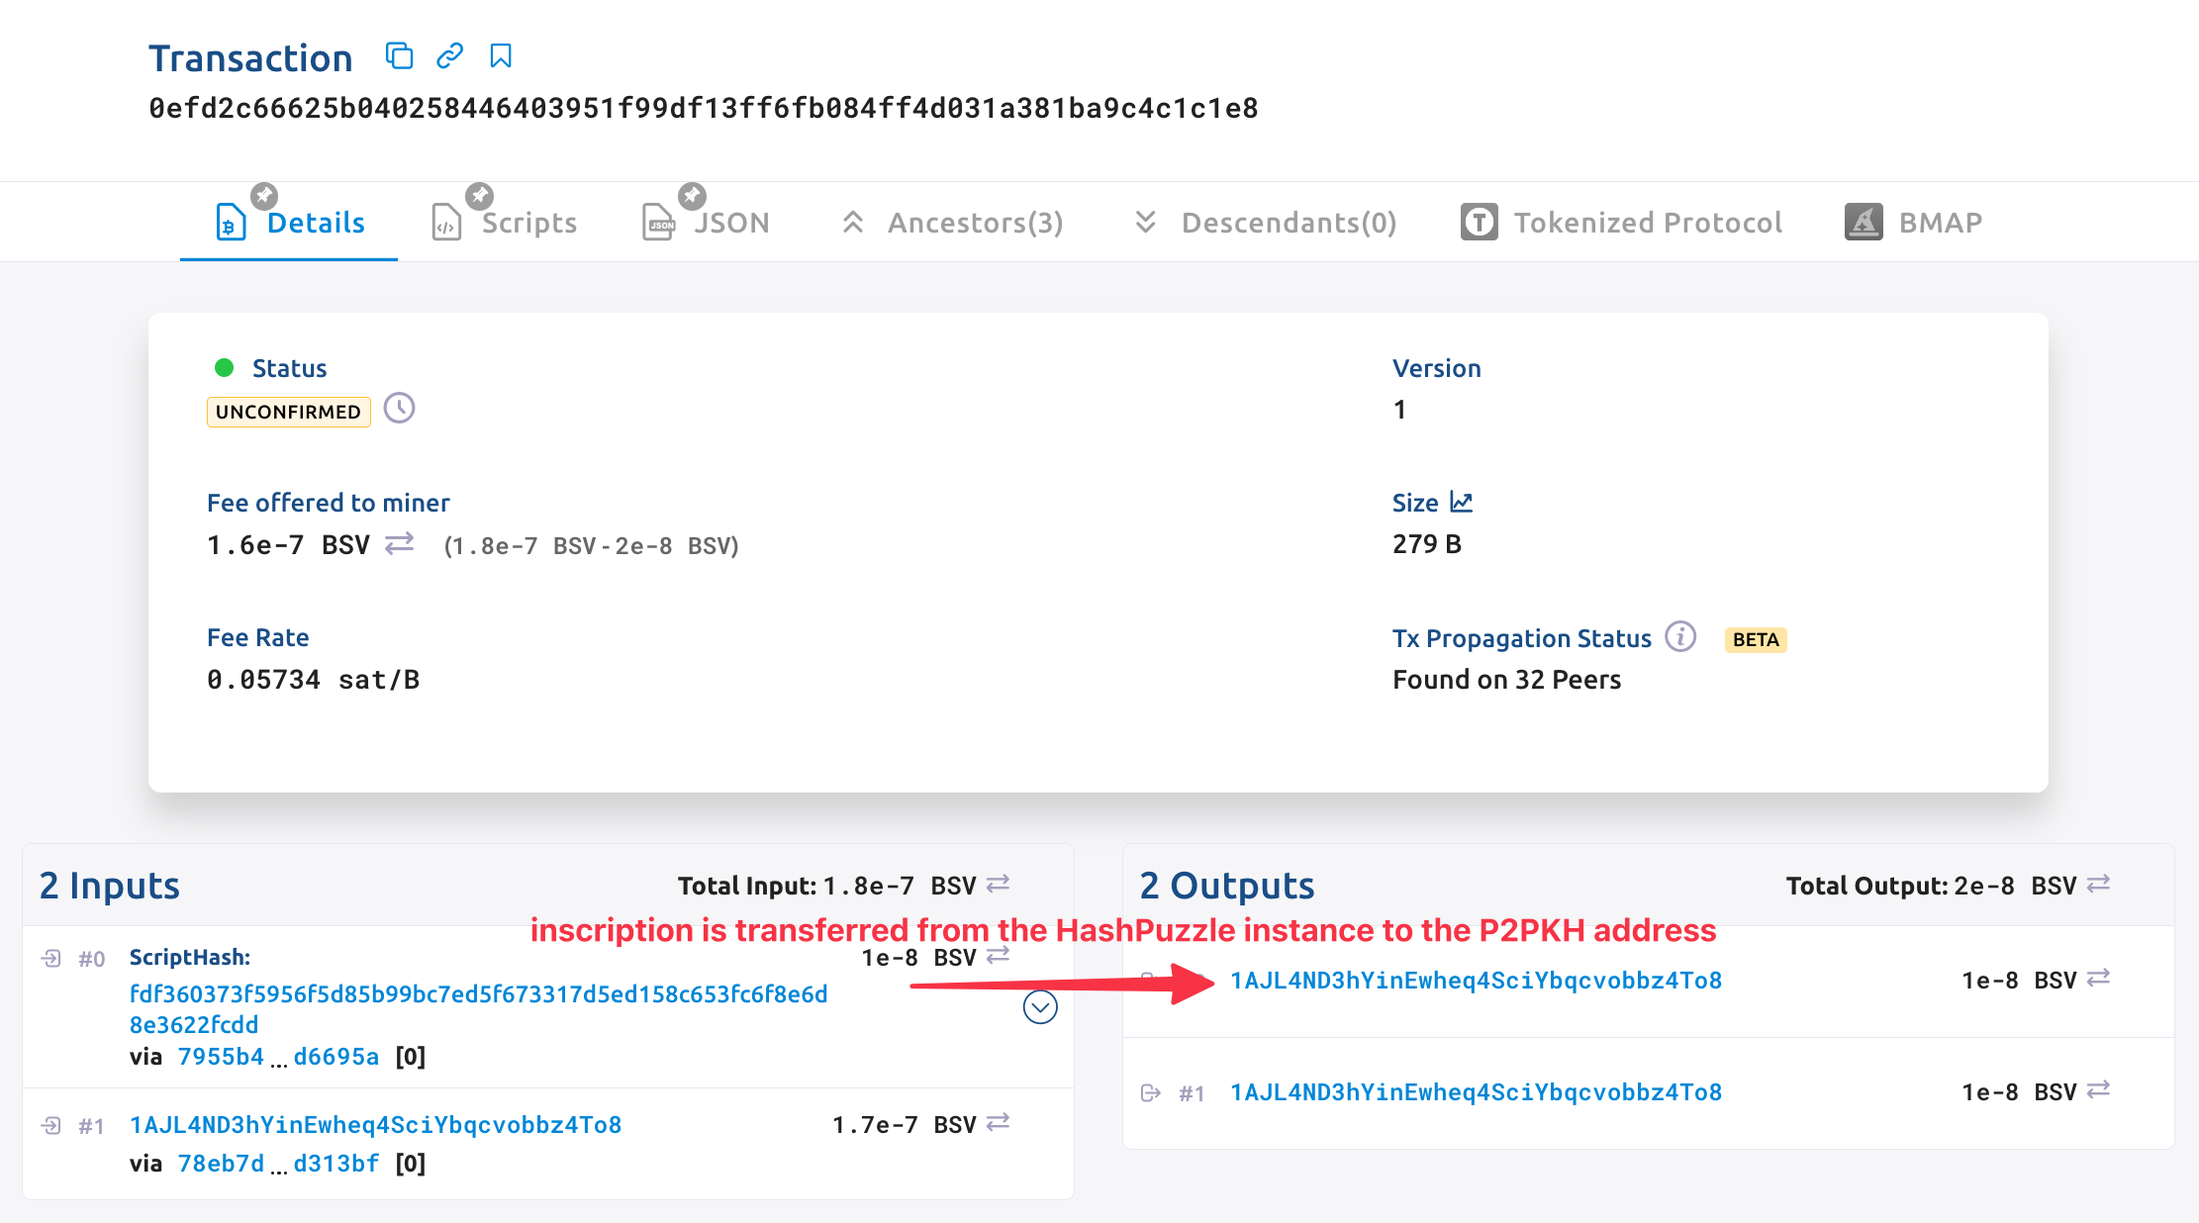
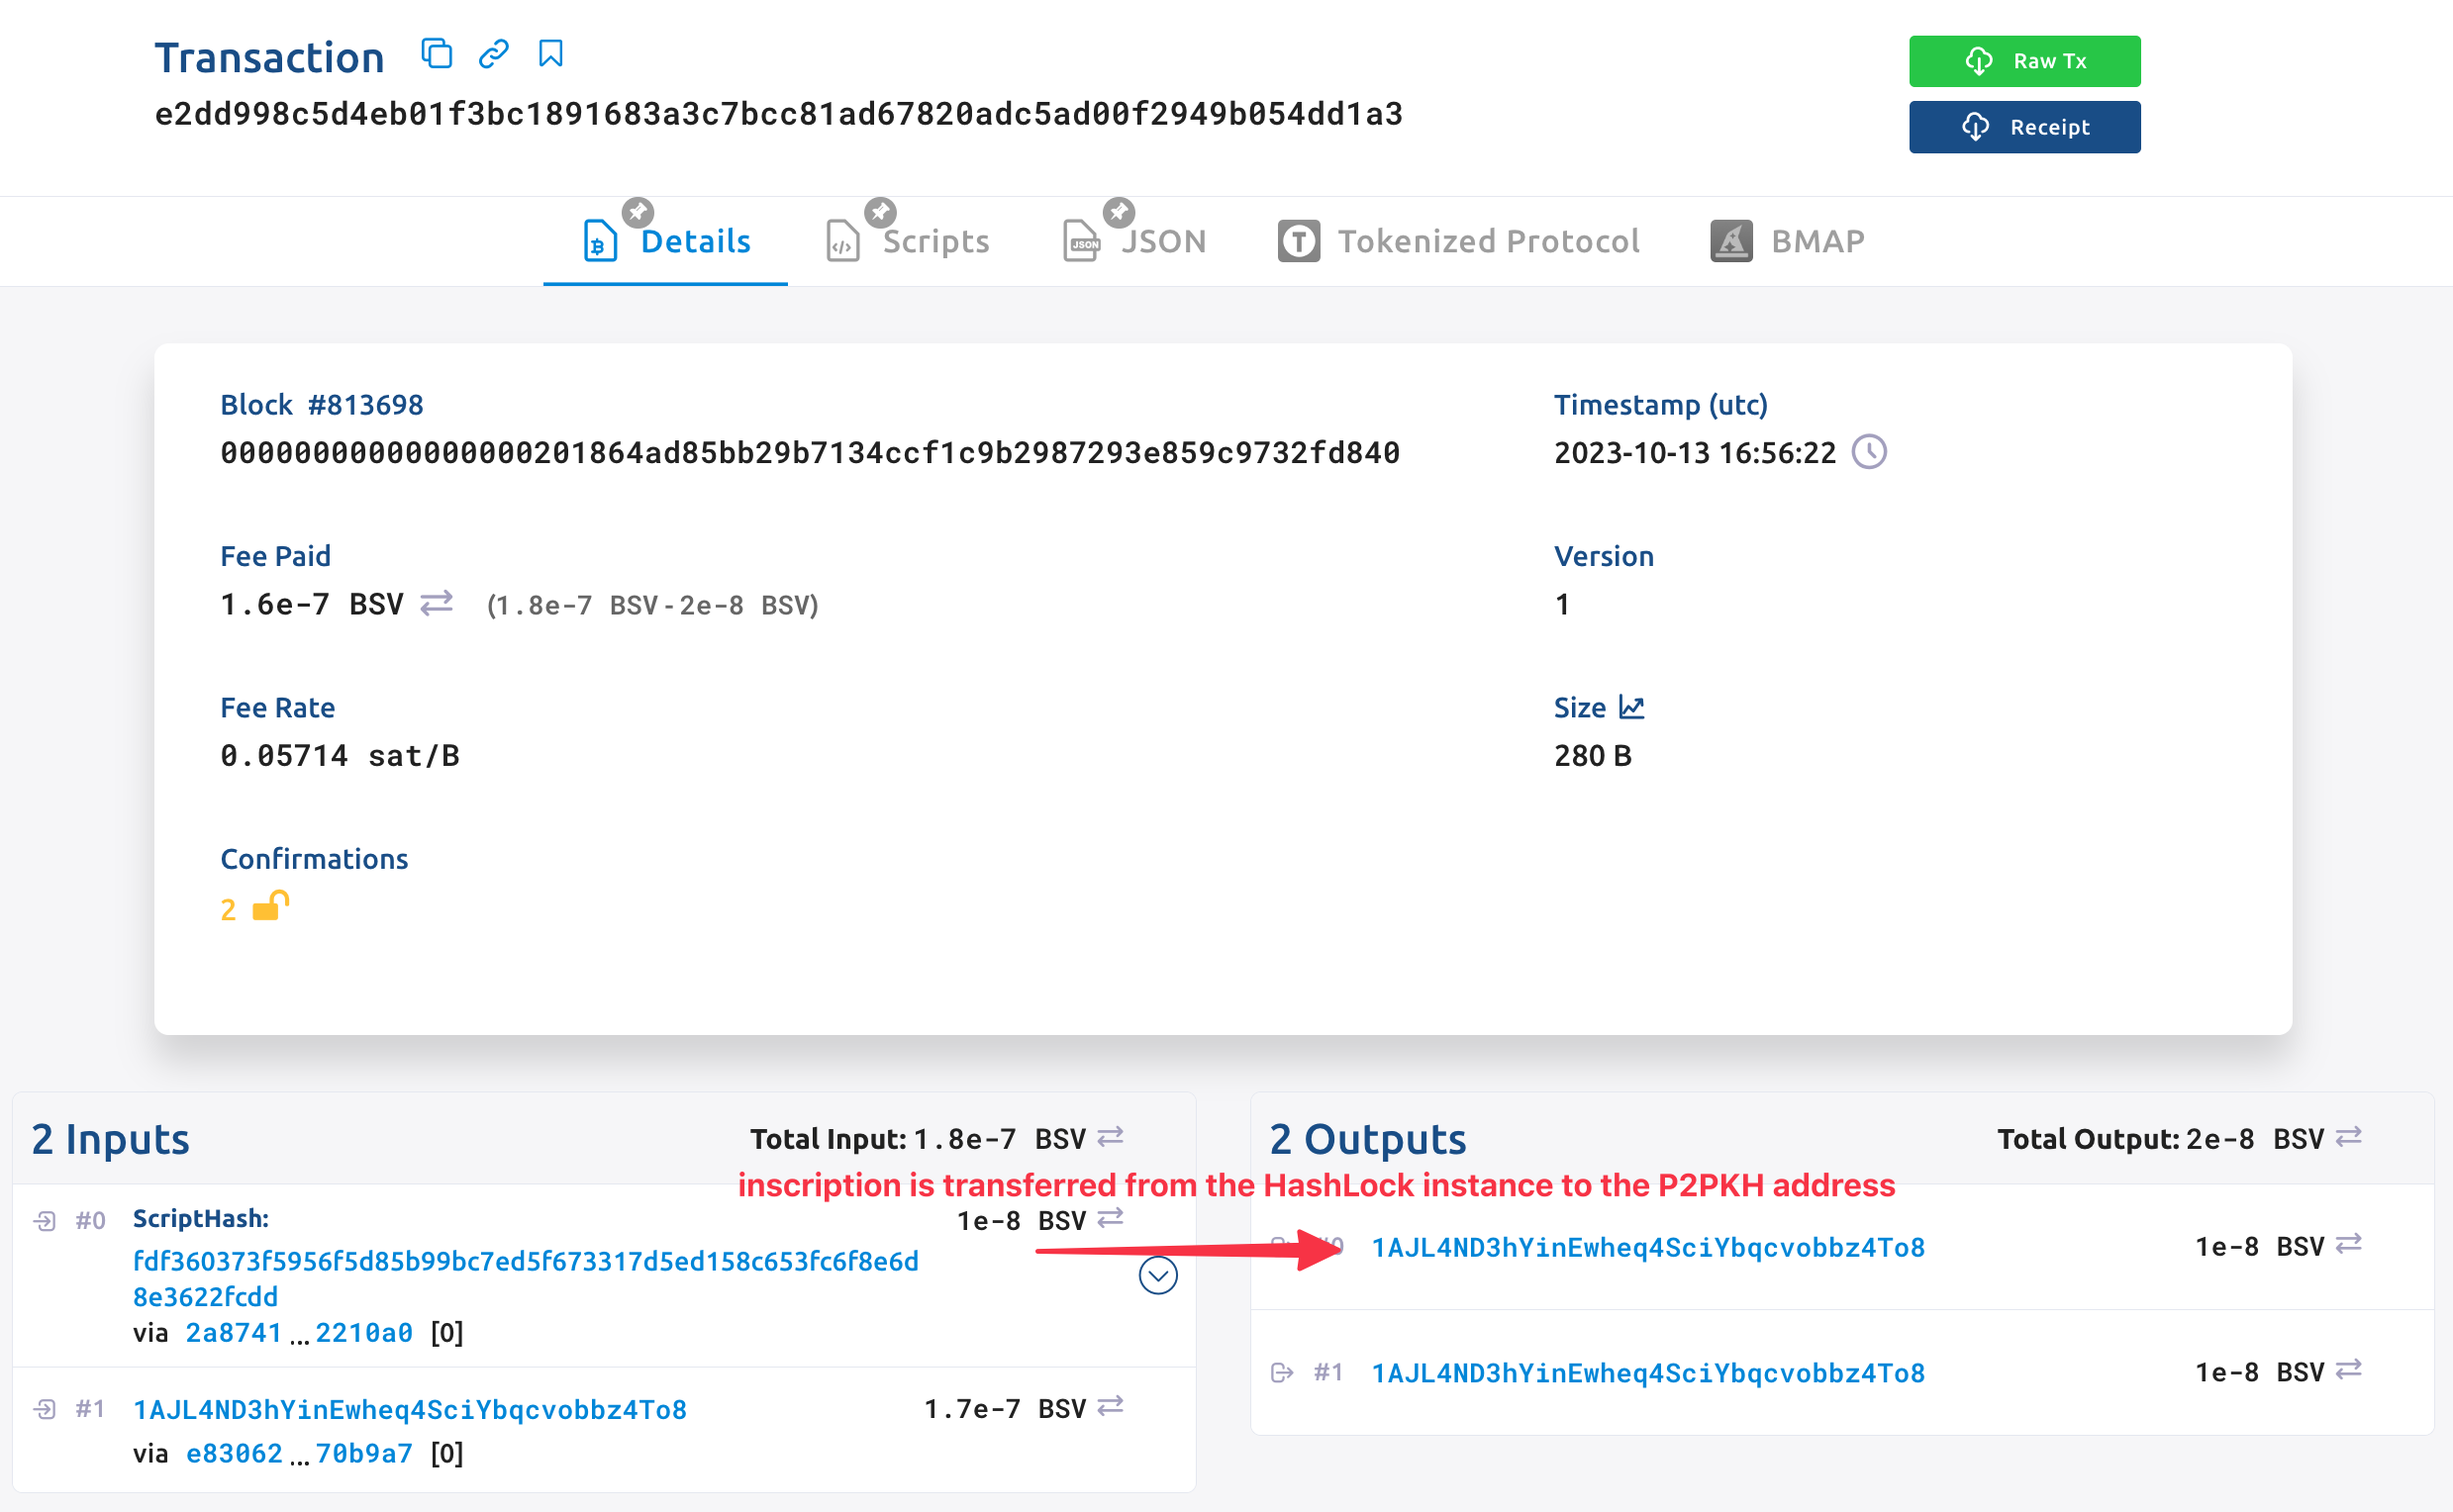
Update inscribe image

diff --git a/docs/tutorials/inscribe-image.md b/docs/tutorials/inscribe-image.md
@@ -6,10 +6,11 @@ sidebar_position: 8
 
 ## Overview
 
-In this tutorial, we will use contract [HashPuzzle](https://github.com/sCrypt-Inc/boilerplate/blob/master/src/contracts/hashLock.ts) as an example, to introduce how to inscribe an image with [sCrypt](https://scrypt.io/) and transfer the [1Sat Ordinals](https://docs.1satordinals.com/) inscription with a Smart Contract.
+In this tutorial, we will use contract [HashPuzzle](https://github.com/sCrypt-Inc/boilerplate/blob/master/src/contracts/hashPuzzle.ts) as an example, to introduce how to inscribe an image with [sCrypt](https://scrypt.io/) and transfer the [1Sat Ordinals](https://docs.1satordinals.com/) with a Smart Contract.
 
-**Note**: The contract instance must be funded with some BSV before inscribing the image.
-
+:::note
+The contract instance must be funded with some BSV before inscribing the image.
+:::
 
 To enable all these features, you should install `scrypt-ord` as an dependency in your project.
 
@@ -19,10 +20,10 @@ npm install scrypt-ord
 
 ## Contract
 
-The new contract `HashLockNFT` is almost the same as the previous [implementation](https://github.com/sCrypt-Inc/boilerplate/blob/master/src/contracts/hashLock.ts), except it must be derived from `OneSatNFT` instead of `SmartContract`.
+The new contract `HashLockNFT` is almost the same as the previous [implementation](https://github.com/sCrypt-Inc/boilerplate/blob/master/src/contracts/hashPuzzle.ts), except it must be derived from `OrdinalNFT` instead of `SmartContract`.
 
 ```ts
-class HashLockNFT extends OneSatNFT {
+class HashLockNFT extends OrdinalNFT {
     ...
 }
 ```
@@ -30,20 +31,20 @@ class HashLockNFT extends OneSatNFT {
 The contract also stores a hash value in the contract, and it will be unlocked successfully when calling the public method `unlock` with the correct message.
 
 ```ts
-class HashLockNFT extends OneSatNFT {
+class HashLockNFT extends OrdinalNFT {
     @prop()
     hash: Sha256
+    
+    ...
     
     @method()
     public unlock(message: ByteString) {
         assert(this.hash == sha256(message), 'hashes are not equal')
     }
-    
-    ...
 }
 ```
 
-The base class `OneSatNFT` encapsulated helper functions to handle inscriptions. If you want to create your own contract that can interact with the inscription, derive from it.
+The base class `OrdinalNFT` encapsulated helper functions to handle ordinals. If you want to create your own contract that can interact with the Ordinal NFT, derive from it.
 
 ## Inscribe Image
 
@@ -64,7 +65,7 @@ Execute command `npx ts-node tests/examples/inscribeImage.ts` to run this exampl
 
 ![](../../static/img/inscribe-image.png)
 
-Then you can check your inscription on the explorer.
+Then you can check your inscription on the explorer as below, or [view the image](https://ordinals.gorillapool.io/api/files/inscriptions/2a87414ec80652ad192338fcdf55b20f0f80c2eef73b4d978a1ebbb1012210a0_0) via [1Sat Ordinals API](https://ordinals.gorillapool.io/api/docs/).
 
 ![](../../static/img/inscribe-image-inscribe-tx.png)
 
@@ -72,7 +73,7 @@ Then you can check your inscription on the explorer.
 
 Normally, we use a P2PKH address to receive the inscription, then the inscription is controlled by a private key the same as the general P2PKH.
 
-In this example, the inscription is sent to a contract instance, it is controlled by the smart contract, which means it can only be transferred when the hash Lock is unlocked.
+In this example, the inscription is sent to a contract instance, it is controlled by the smart contract, which means it can only be transferred when the hash lock is unlocked.
 
 ## Transfer the Inscription
 
@@ -80,10 +81,10 @@ For now, the contract instance holds the inscription and we try to transfer it t
 
 ### Step 1. Create Receiver Instance
 
-Class `OneSatNFTP2PKH` represents a P2PKH address that can hold inscriptions. Its constructor takes one parameter which is the receiving address.
+Class `OrdNFTP2PKH` represents a P2PKH address that can hold inscriptions. Its constructor takes one parameter which is the receiving address.
 
 ```ts
-const receiver = new OneSatNFTP2PKH(Addr(receiverAddress.toByteString()))
+const receiver = new OrdNFTP2PKH(Addr(address.toByteString()))
 ```
 
 ### Step 2. Call the Contract
@@ -94,7 +95,7 @@ Just as other [contract calling](../how-to-deploy-and-call-a-contract/how-to-dep
 const { tx: transferTx } = await hashLock.methods.unlock(
     message,
     {
-        transfer: receiver,
+        transfer: receiver,  // <-----
     } as MethodCallOptions<HashLockNFT>
 )
 ```
